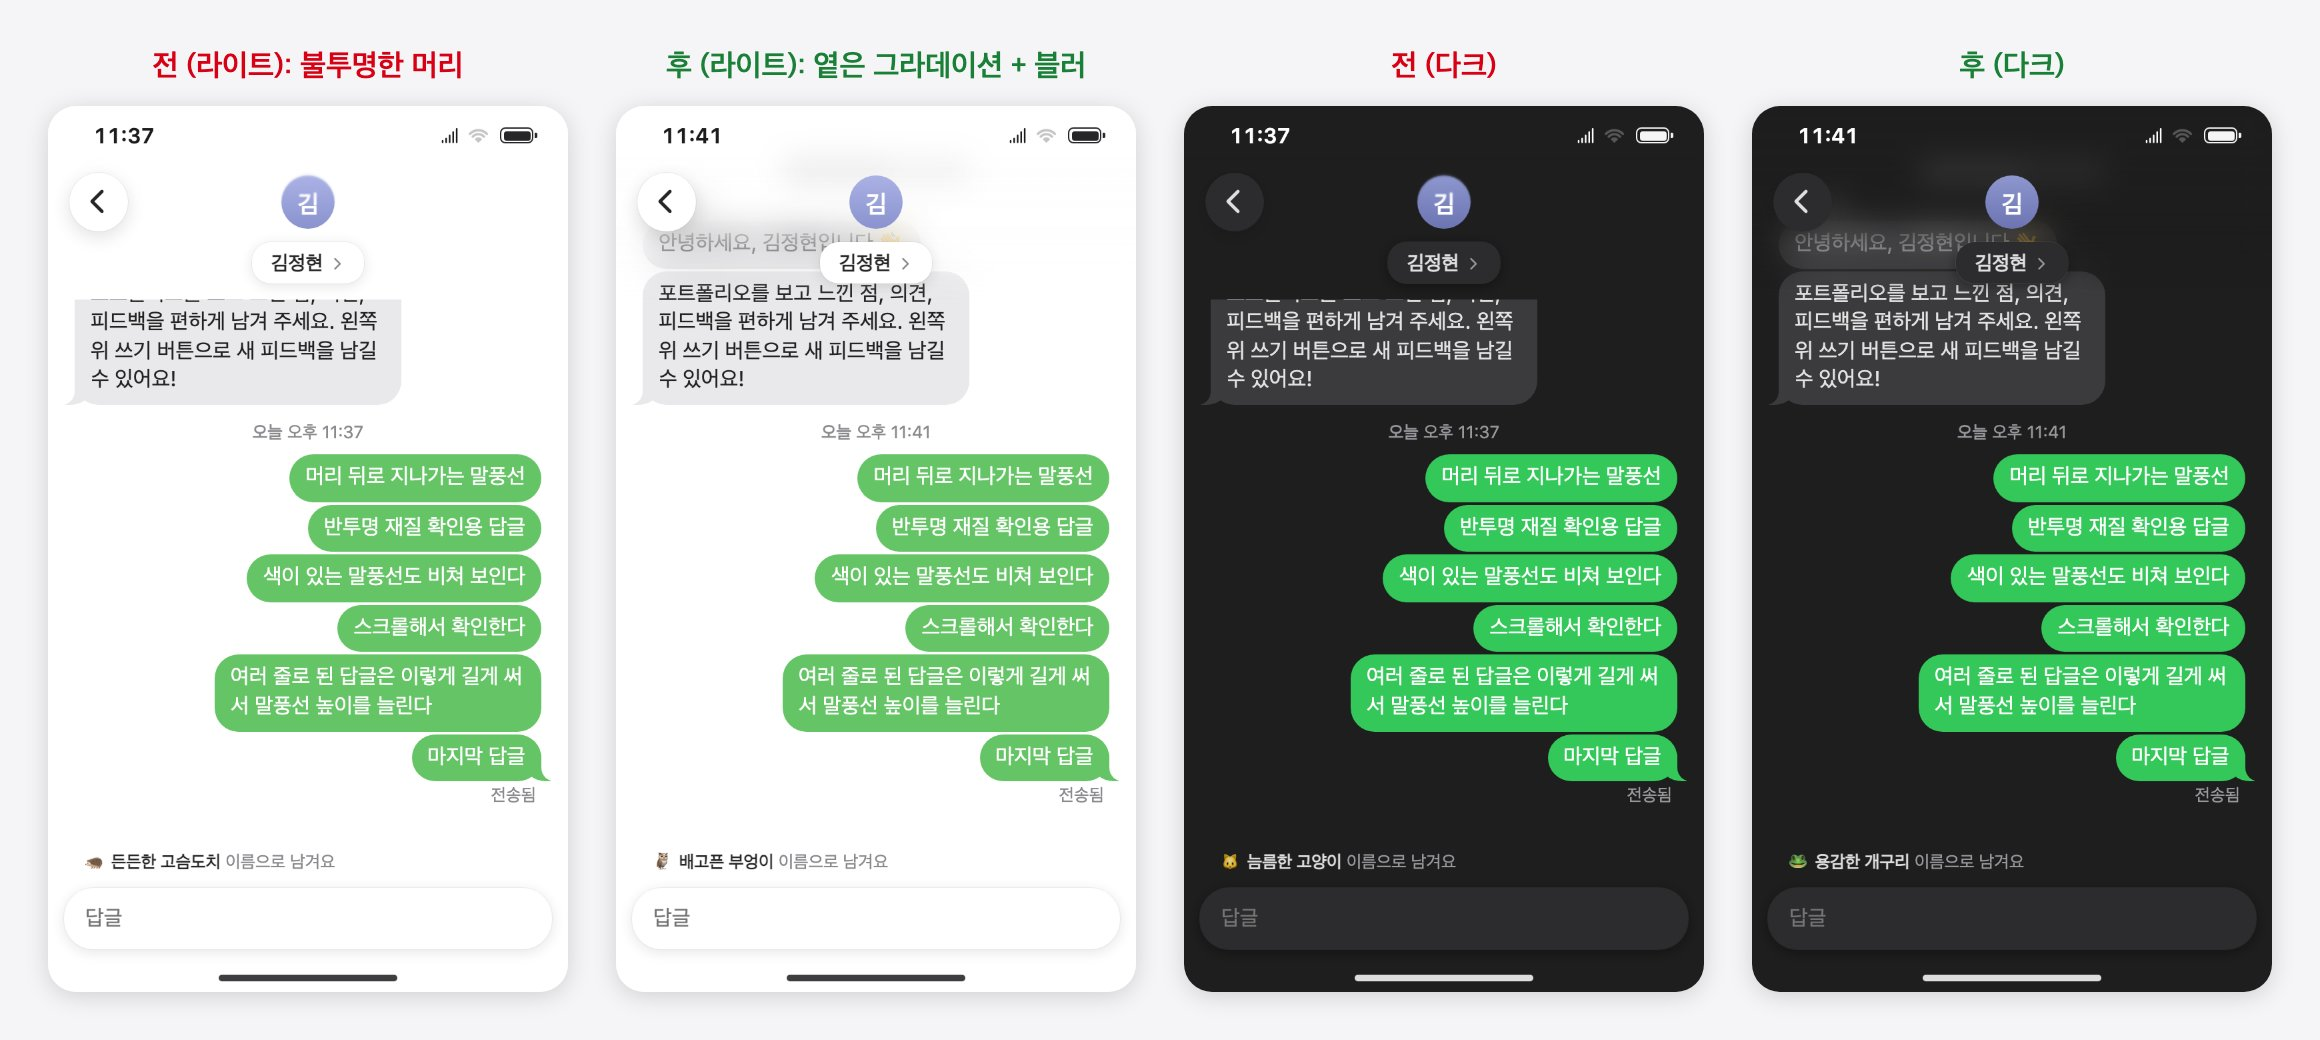
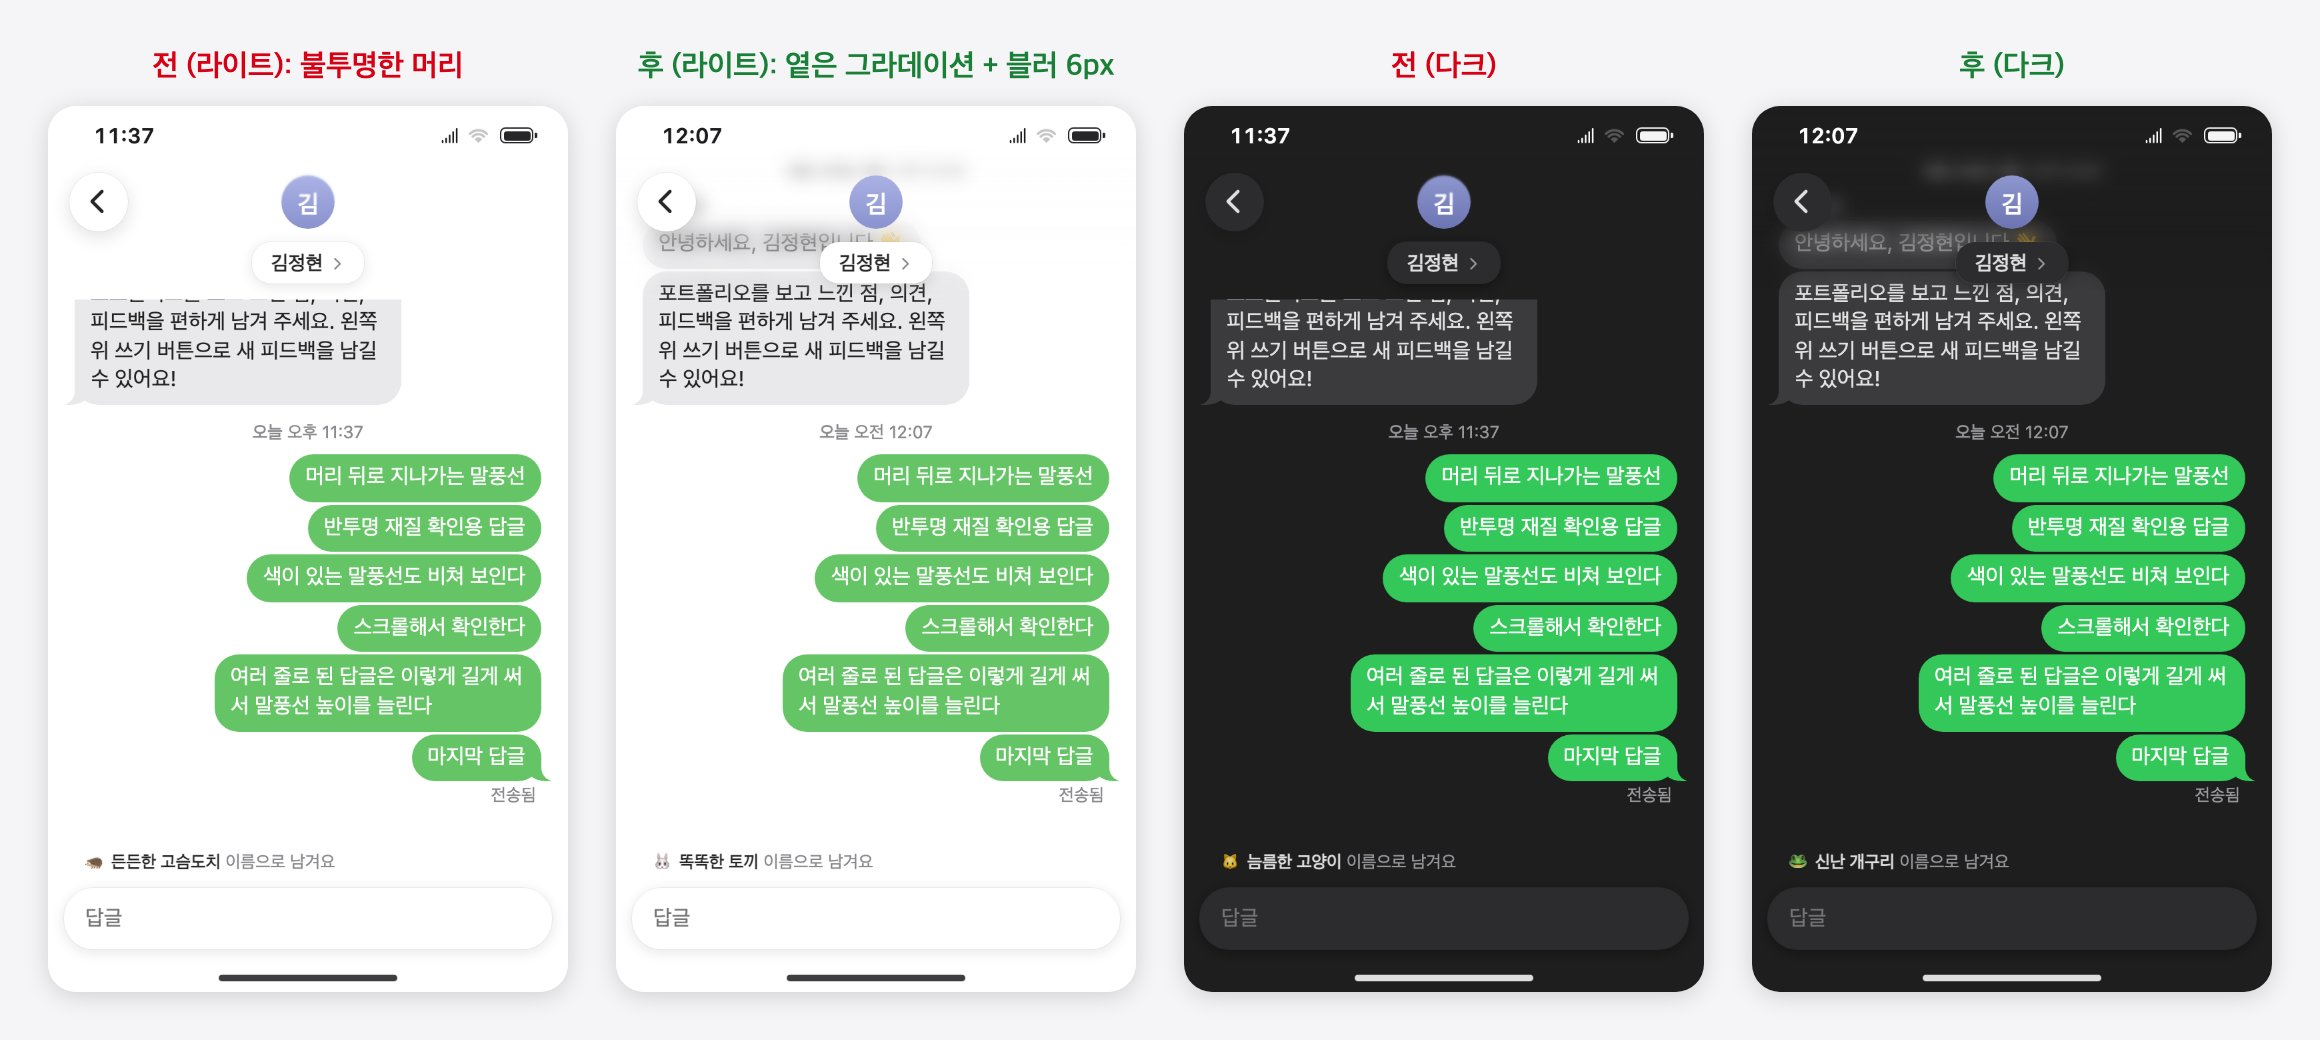
docs(memo): 메시지 글의 머리 블러 값을 6px로 고친다

diff --git a/apps/react/src/apps/memo/content/messages-layout-fixes.md b/apps/react/src/apps/memo/content/messages-layout-fixes.md
@@ -86,7 +86,7 @@ export function keyboardViewport(): KeyboardViewport | null {
 머리를 화면 위에 고정하고 나니, 머리 영역이 대화와 같은 불투명한 바탕이라 스크롤한 말풍선이 머리 아래에서 잘린 듯 사라졌다. iOS 메시지는 말풍선이 머리 뒤로 흐리게 지나간다.
 
 - **배치**: 휴대폰 화면에서는 머리를 `position: absolute`로 대화 칸 위에 띄우고, 대화 칸(`.messages-transcript`)의 위 여백을 머리 높이만큼 둔다. 머리 높이는 설명 줄 수에 따라 달라서 `ChatView`가 `ResizeObserver`로 측정해 `--chat-header-height` 변수로 넘긴다. 맨 위로 스크롤하면 첫 말풍선은 머리 아래에서 시작한다.
-- **재질**: 단색 반투명 판은 여전히 불투명하게 보였다. 그래서 바탕색을 위쪽만 옅게(알파 0.45) 깔고 아래로 갈수록 0이 되는 세로 그라데이션과 `backdrop-filter: blur(12px)`를 의사 요소(`::before`)에 깔았다. 블러는 `mask-image`로 아래쪽을 지워 그라데이션과 함께 풀리게 했고, 아래 경계에 선이나 그림자는 두지 않았다. 바탕색은 앱의 `--messages-window-bg`라 다크 모드에서는 어두운 그라데이션이 된다.
+- **재질**: 단색 반투명 판은 여전히 불투명하게 보였다. 그래서 바탕색을 위쪽만 옅게(알파 0.45) 깔고 아래로 갈수록 0이 되는 세로 그라데이션과 `backdrop-filter: blur(6px)`를 의사 요소(`::before`)에 깔았다. 블러는 `mask-image`로 아래쪽을 지워 그라데이션과 함께 풀리게 했고, 아래 경계에 선이나 그림자는 두지 않았다. 바탕색은 앱의 `--messages-window-bg`라 다크 모드에서는 어두운 그라데이션이 된다.
 - **의사 요소에 두는 이유**: 머리 자체에 `mask-image`를 주면 머리 안의 아바타와 이름 알약까지 함께 지워진다. 또 부모에 `filter`, `mask`, `opacity`, `backdrop-filter`가 있으면 그 부모가 [backdrop root](https://drafts.fxtf.org/filter-effects-2/#BackdropRoot)가 되어 뒤의 말풍선이 비치지 않으므로, 머리와 대화 칸의 공통 부모에는 이런 속성을 두지 않는다.
 - 머리가 직접 재질을 그리므로 대화 화면에서는 휴대폰 셸의 스크롤 가장자리 흐림(`scrollEdge`)을 끈다.
 
